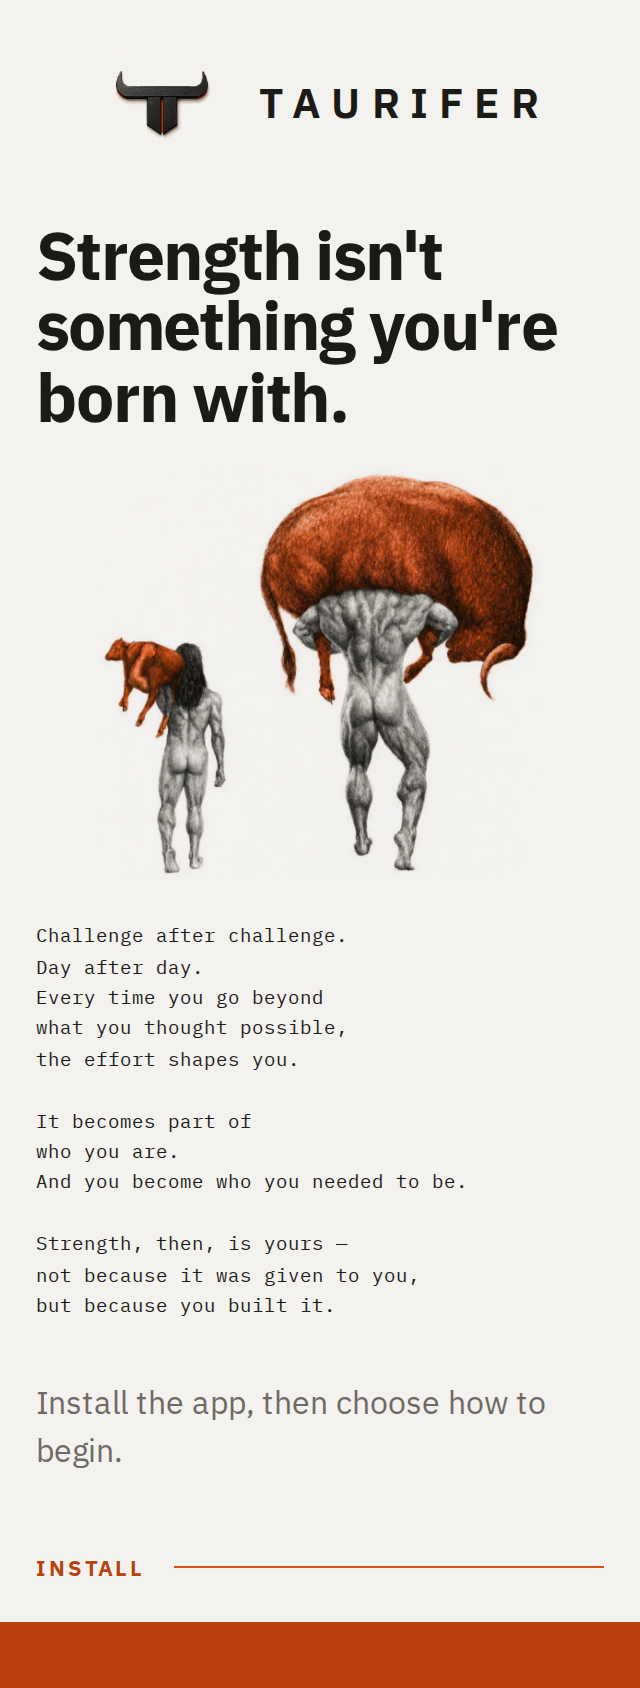
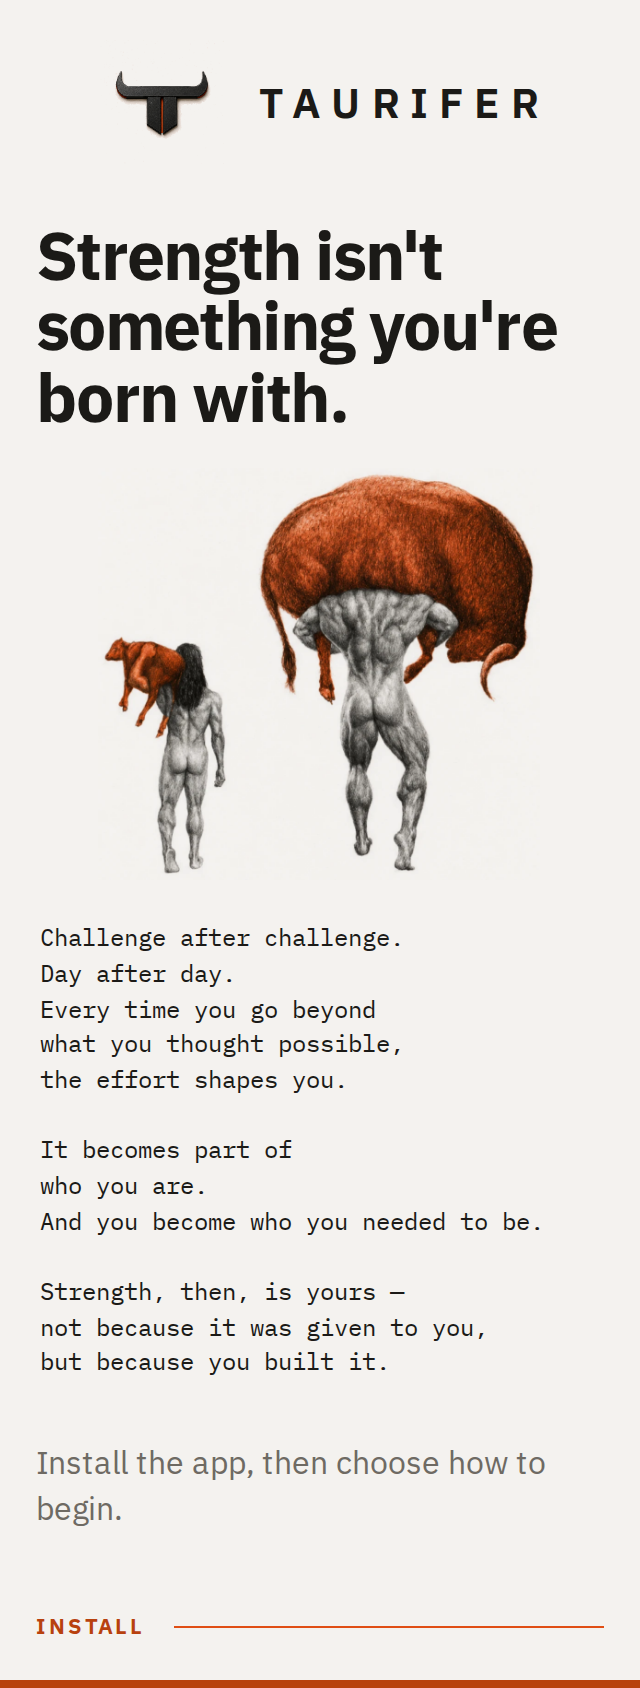
Fill the first-run poem measure

diff --git a/styles.css b/styles.css
@@ -2504,8 +2504,11 @@ body.is-firstrun nav,body.is-firstrun #installBtn,body.is-firstrun #restBar{disp
 .firstrun-hero{
   position:relative;isolation:isolate;container-type:inline-size;display:grid;
   grid-template-areas:"title" "art" "body";
-  --poem:clamp(9.5px,3.25cqw,16px);
-  --poem-line:calc(1.62 * var(--poem));
+  /* The longest authored line uses about 90% of the compact column. The old
+     float-driven scale survived after the art moved to its own row and left a
+     conspicuous empty half-column beside the poem. */
+  --poem:clamp(11px,4.15cqw,16px);
+  --poem-line:calc(1.5 * var(--poem));
 }
 .firstrun-hero__title{
   grid-area:title;position:relative;z-index:1;margin:0;max-width:14ch;
@@ -2523,7 +2526,7 @@ body.is-firstrun nav,body.is-firstrun #installBtn,body.is-firstrun #restBar{disp
   pointer-events:none;
 }
 .firstrun-hero__body{
-  grid-area:body;position:relative;z-index:1;margin:0;
+  grid-area:body;position:relative;z-index:1;width:min(100%,40ch);margin:0;justify-self:center;
   white-space:pre-line;font-family:var(--mono);font-size:var(--poem);
   line-height:var(--poem-line);color:var(--ink);
 }
@@ -2553,7 +2556,7 @@ body.is-firstrun nav,body.is-firstrun #installBtn,body.is-firstrun #restBar{disp
   }
   .firstrun-hero__title{align-self:end;font-size:clamp(44px,6.2cqw,54px)}
   .firstrun-hero__art{width:100%;margin:0;align-self:center}
-  .firstrun-hero__body{margin-top:clamp(24px,3cqw,30px)}
+  .firstrun-hero__body{margin-top:clamp(24px,3cqw,30px);justify-self:start}
 }
 
 .firstrun-row{

diff --git a/docs/adr/0006-first-run-ethos-hero.md b/docs/adr/0006-first-run-ethos-hero.md
@@ -49,7 +49,10 @@ The picture is always shown whole, inside the page, never cropped, stretched,
 or run off an edge. Its element uses the export's exact `1072 / 998` aspect ratio
 and `background-size:contain`; the grid gap makes text/art separation structural
 rather than dependent on authored line lengths. The poem still renders exactly
-the breaks carried by each translation. `test/install-modes.mjs` checks that
+the breaks carried by each translation. Once the art moved out of the poem's
+float, its compact type scale was increased so the longest line occupies about
+90% of the available measure rather than leaving an unused half-column.
+`test/install-modes.mjs` checks that
 geometry at compact and wide viewports in English and Portuguese — including
 both sides of the 760 px breakpoint — with no overlap, no horizontal overflow,
 exact artwork ratio, and minimum visual prominence for both the illustration

diff --git a/docs/brand-guide.md b/docs/brand-guide.md
@@ -58,8 +58,9 @@ The written breaks still have to fit as written, in both languages, at every
 supported width. A translation is re-broken by hand rather than allowed to
 wrap wherever the browser happens to find room. `node test/install-modes.mjs`
 counts the rendered lines against the written ones and also checks text/art
-separation, aspect ratio, containment, lockup prominence, and horizontal
-overflow at compact and wide viewports.
+separation, aspect ratio, containment, lockup prominence, horizontal overflow,
+and that the longest authored line occupies most of its available measure at
+compact and wide viewports.
 
 The hero's illustration — the calf-carrier grown into the bull-carrier — lives
 at `assets/brand/milo-hero.webp`: owner-supplied, decorative, painted by CSS so
